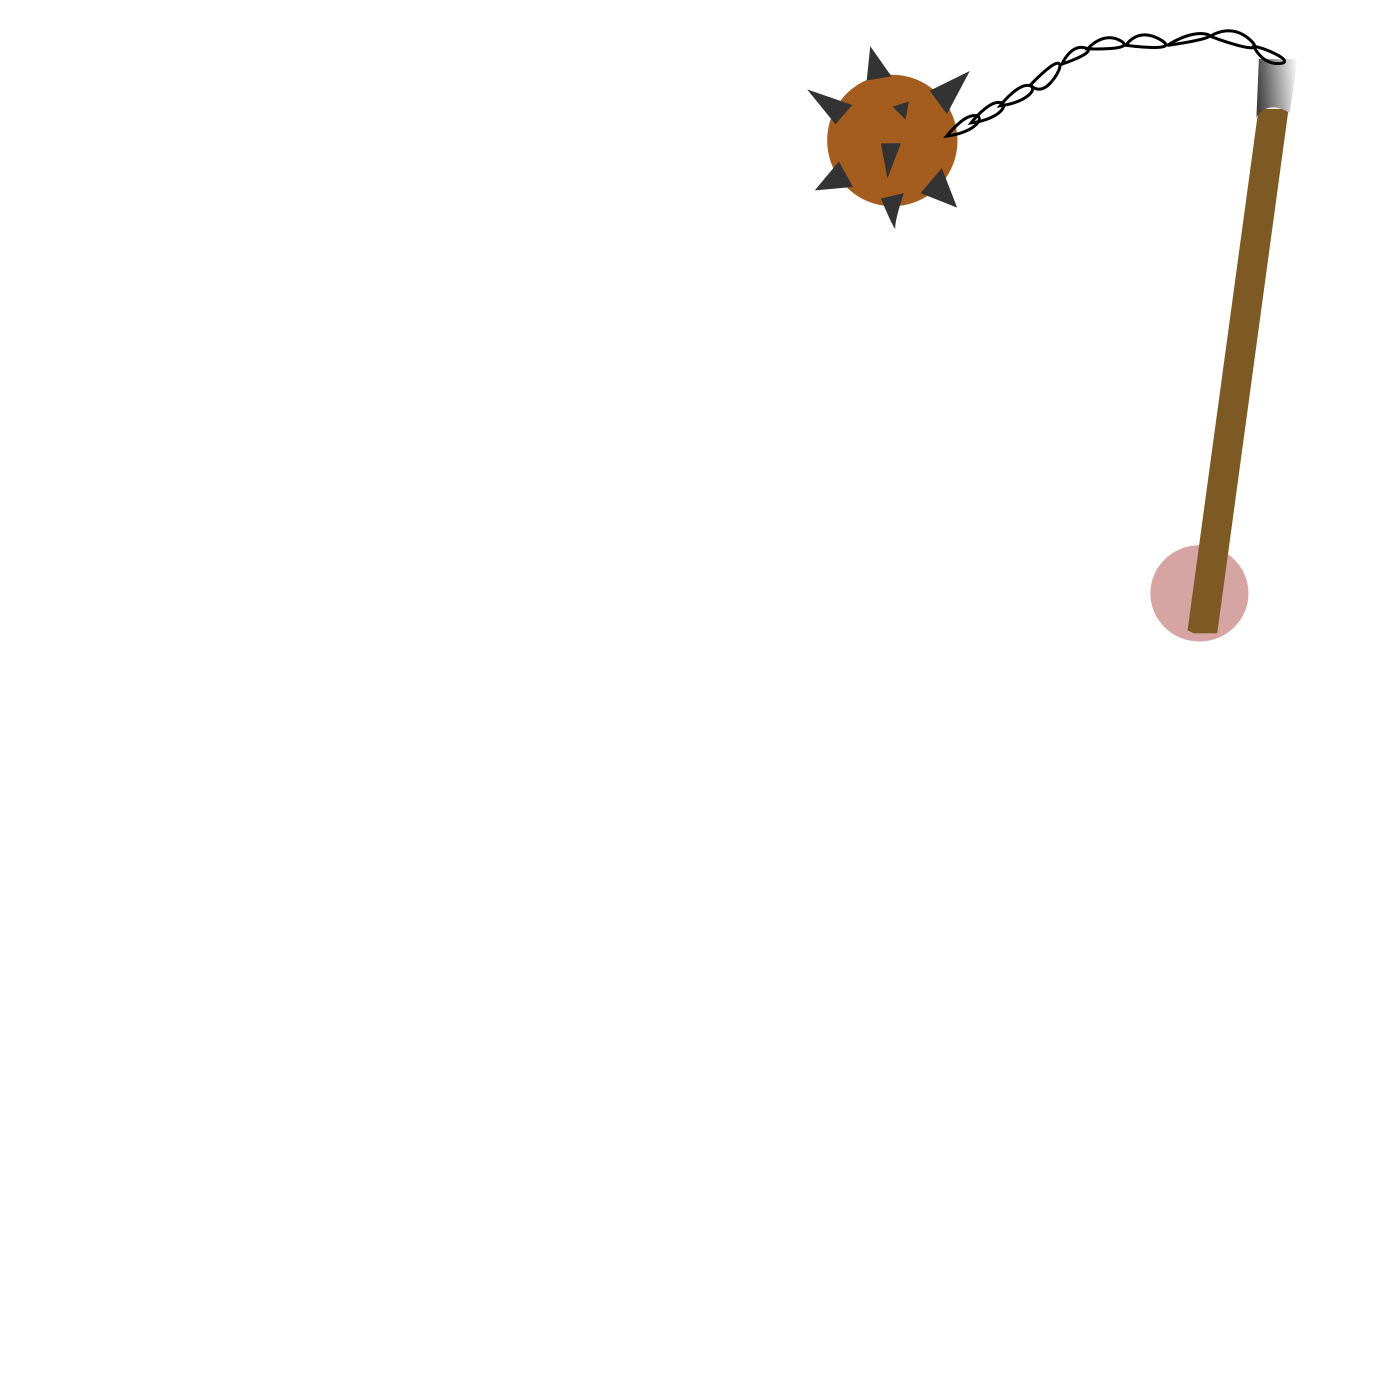
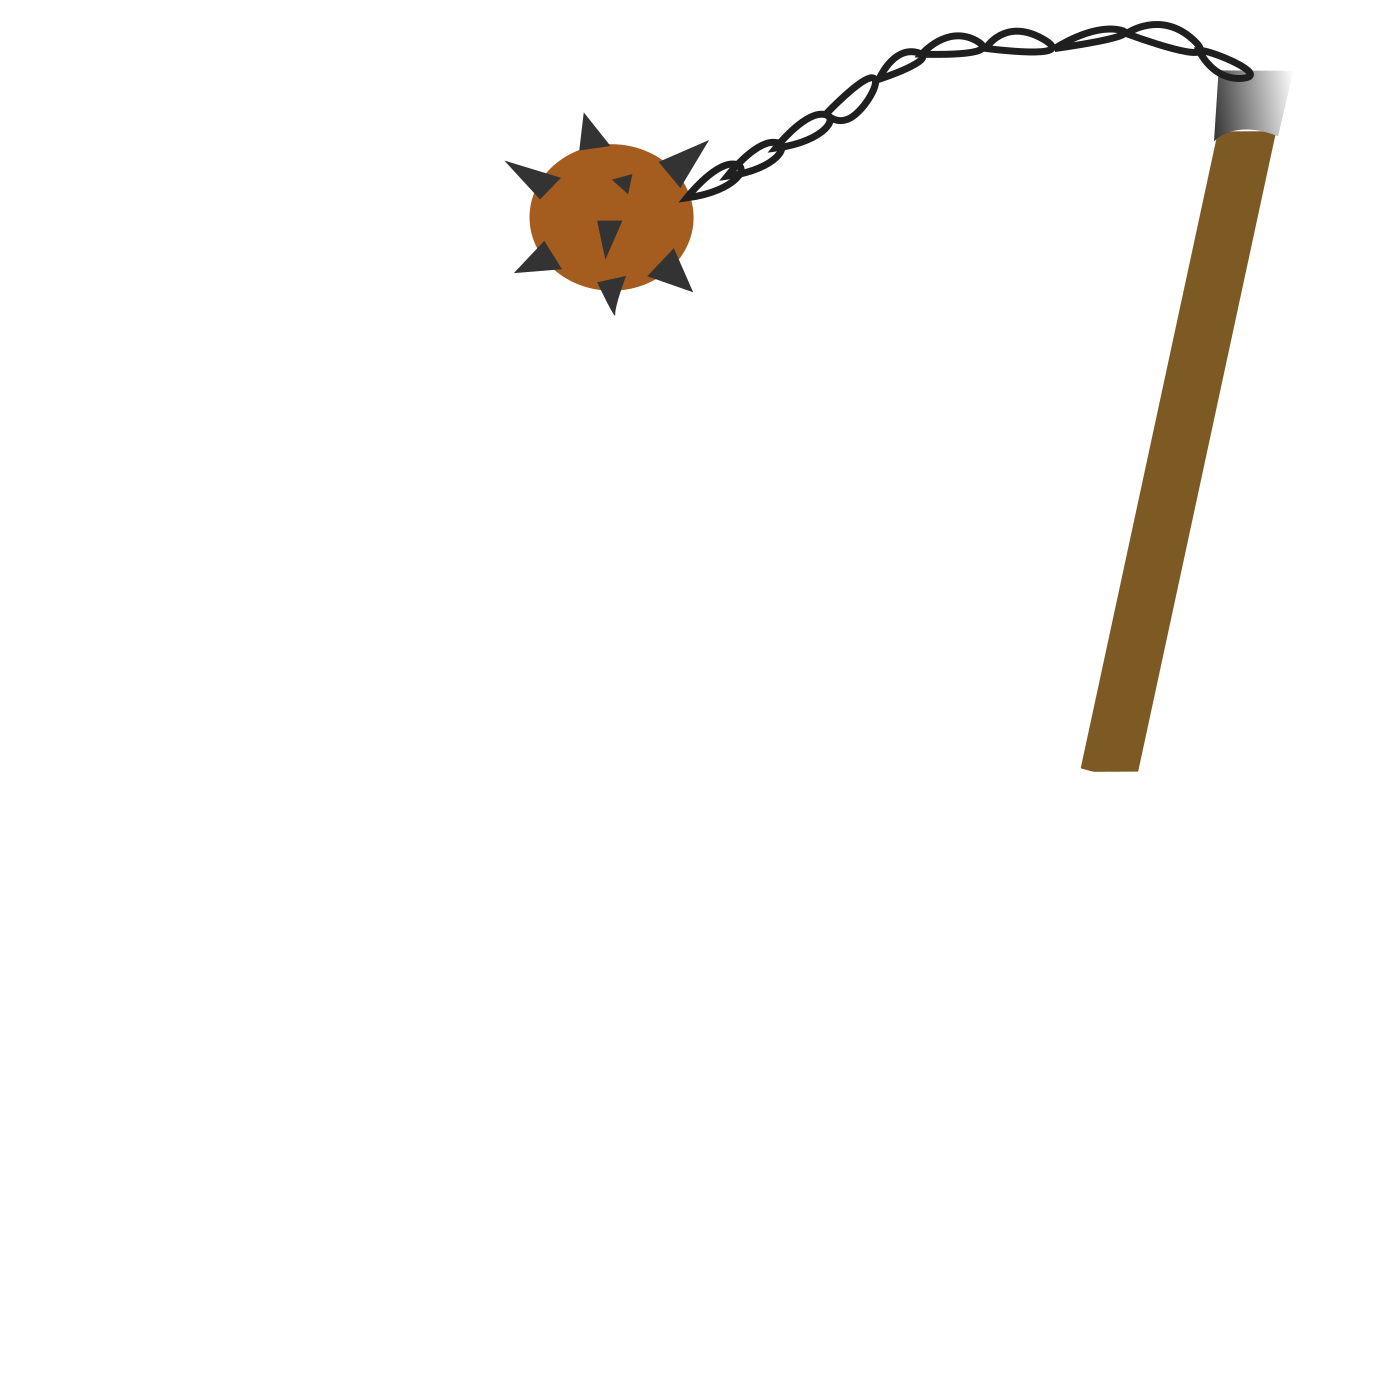
Added the rest of equipment and fixed code for horses

Changed region(s): [[0.3686, 0.0, 0.9214, 0.5529]]

diff --git a/Pawn.cpp b/Pawn.cpp
@@ -54,12 +54,17 @@ void Pawn::createSprite()
         }
 
         sf::RenderTexture* renderTexture = new sf::RenderTexture;
-        renderTexture->create(1400, 1400);
+        renderTexture->create(1400, 1800);
 
         renderTexture->clear(sf::Color::Transparent);
         for (const auto& sprite : sortedSprites)
         {
-            renderTexture->draw(sprite);
+            sf::Vector2f renderTextureCenter(renderTexture->getSize().x / 2.0f, renderTexture->getSize().y / 2.0f);
+            sf::Vector2f spriteCenterOffset(sprite.getLocalBounds().width / 2.0f, sprite.getLocalBounds().height / 2.0f);
+            sf::Vector2f spritePosition = renderTextureCenter - spriteCenterOffset;
+            sf::Transform transform;
+            transform.translate(spritePosition);
+            renderTexture->draw(sprite, transform);
         }
         renderTexture->display();
 
@@ -458,17 +463,32 @@ void Pawn::flipSprite(Equipment* item)
 
 const std::map<std::string, int> Pawn::order = {
     {"red", 0},
-    {"blue", 1},
-    {"helmet", 2},
-    {"plate armour", 3},
-    {"leather armour", 3},
-    {"sword", 4},
-    {"shield", 5},
-    {"bow", 6},
-    {"crossbow", 7},
-    {"axe", 8},
-    {"two handed axe", 9},
-    {"dagger", 10}
+    {"blue", 0},
+    {"helmet", 1},
+    {"great helmet", 1},
+    {"plate armour", 2},
+    {"leather armour", 2},
+    {"horse", 3},
+    {"war horse", 3},
+    {"dagger", 4},
+    {"long dagger", 5},
+    {"sword", 6},
+    {"two handed sword", 7},
+    {"light shield", 8},
+    {"shield", 9},
+    {"heavy shield", 10},
+    {"bow", 11},
+    {"longbow", 12},
+    {"crossbow", 13},
+    {"heavy crossbow", 14},
+    {"axe", 15},
+    {"two handed axe", 16},
+    {"flail", 17},
+    {"fork", 18},
+    {"spear", 19},
+    {"warhammer", 20},
+    {"gauntlets", 21},
+    {"bracers", 22},
 };
 
 std::vector<sf::Texture*> Pawn::textures;

diff --git a/GUI.cpp b/GUI.cpp
@@ -15,7 +15,7 @@ Gui::Gui(sf::RenderWindow* window, const int screenWidth, const int screenHeight
     e4 = new Equipment("shield", { 0,1 }, { 1, "hands" }, 2, 1, "Armour", 5, "Shield");
     e5 = new Equipment("bow", { 4,7 }, { 2, "hands" }, 1, 2, "Weapon", 5, "Ranged 2");
     e6 = new Equipment("crossbow", { 4,6 }, { 1, "hands" }, 2, 3, "Weapon", 4, "Ranged 2");
-    e7 = new Equipment("dagger", { 0,1 }, { 1, "extras" }, 5, 1, "Weapon", 2, "Single use");
+    e7 = new Equipment("war horse", { 0,1 }, { 1, "extras" }, 5, 1, "Weapon", 2, "Single use");
     e8 = new Equipment("two handed axe", { 0,2 }, { 2, "hands" }, 3, 4, "Weapon", 2, "");
 }
 
